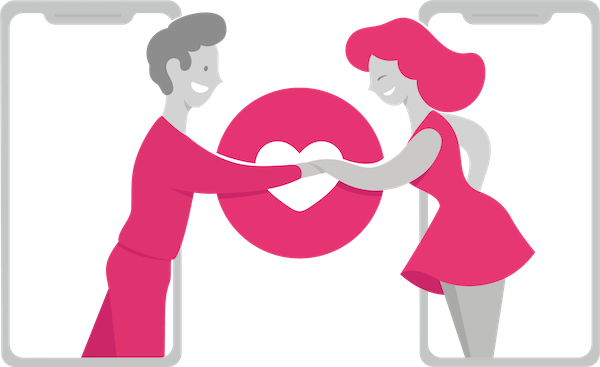
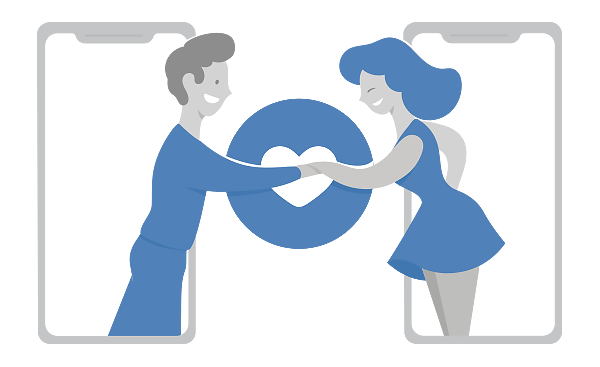
working..

diff --git a/src/containers/Likes/Likes.js b/src/containers/Likes/Likes.js
@@ -103,12 +103,12 @@ export default class Likes extends BaseComponent {
     }
 
     const state = this.props.state;
-    let label;
-    if (state.usersInfo[state.userId].gender === 1) {
+    const label = utils.gram(this.data.count, ['человеку', 'людям', 'людям']);;
+    /*if (state.usersInfo[state.userId].gender === 1) {
       if (this.data.nextFrom) {
         label = `${this.data.likes.length}+ парням`;
       } else {
-        label = utils.gram(this.data.likes.length, ['парню', 'парням', 'парням']);
+        label = utils.gram(count, ['человеку', 'людям', 'людям']);
       }
     } else {
       if (this.data.nextFrom) {
@@ -116,7 +116,7 @@ export default class Likes extends BaseComponent {
       } else {
         label = utils.gram(this.data.likes.length, ['девушке', 'девушкам', 'девушкам']);
       }
-    }
+    }*/
 
     utils.statReachGoal('likes_premium');
 

diff --git a/src/actions/activity.js b/src/actions/activity.js
@@ -411,6 +411,7 @@ export function loadLikes() {
   actions.setData('isFailed', false, pages.LIKES);
   api.method(api.methods.getLikes).then((resp) => {
     actions.setUsers(resp.likes.map(like => like.user));
+    actions.setData('count', resp.count, pages.LIKES);
     actions.setData('likes', resp.likes, pages.LIKES);
     actions.setData('nextFrom', resp.next_from, pages.LIKES)
   }).catch(() => {

diff --git a/src/containers/Join/Join.css b/src/containers/Join/Join.css
@@ -9,7 +9,7 @@
   margin: 16px auto 0;
 }
 .Join__intro-art {
-  background: url('assest/art_onboarding.png') no-repeat center / contain;
+  background: url('assest/art_onboarding.png?1') no-repeat center / contain;
   padding-top: 61%;
 }
 .Join__intro-title {

diff --git a/src/containers/Join/Join.less b/src/containers/Join/Join.less
@@ -13,7 +13,7 @@
 }
 
 .Join__intro-art {
-  background: url('./assest/art_onboarding.png') no-repeat center/contain;
+  background: url('./assest/art_onboarding.png?1') no-repeat center/contain;
   padding-top: 61%;
 }
 

diff --git a/src/containers/Main/Activity.less b/src/containers/Main/Activity.less
@@ -50,7 +50,7 @@
 
   &.premium:after {
     content: '';
-    opacity: 0.1;
+    opacity: 0.2;
     top: 0;
     left: 0;
     width: 100%;

diff --git a/src/containers/Main/Activity.css b/src/containers/Main/Activity.css
@@ -41,7 +41,7 @@
 }
 .im_dialog.premium:after {
   content: '';
-  opacity: 0.1;
+  opacity: 0.2;
   top: 0;
   left: 0;
   width: 100%;
